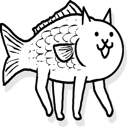
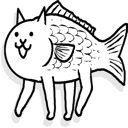
Flip fish image file

diff --git a/battle-cats-capsule/game.html b/battle-cats-capsule/game.html
@@ -645,11 +645,6 @@
                 ctx.save();
                 ctx.translate(cat.x, drawY);
 
-                // Flip fish horizontally (faces wrong way)
-                if (cat.type === "fish") {
-                    ctx.scale(-1, 1);
-                }
-
                 if (img && img.complete) {
                     ctx.drawImage(img, -size / 2, -size / 2, size, size);
                 }
